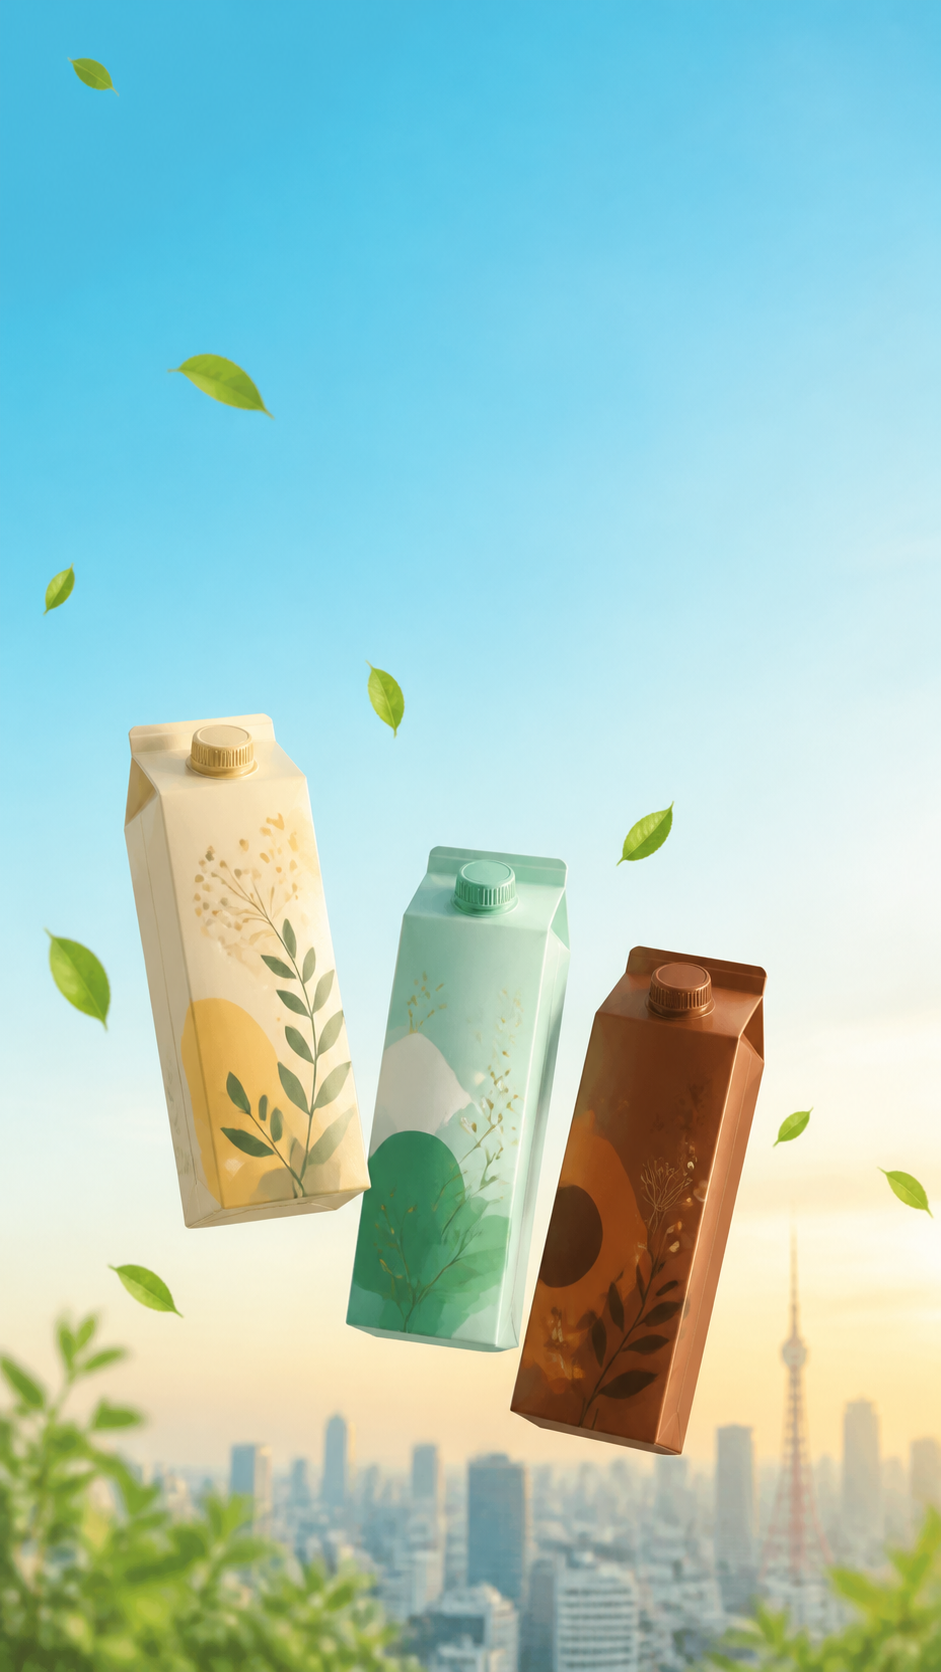
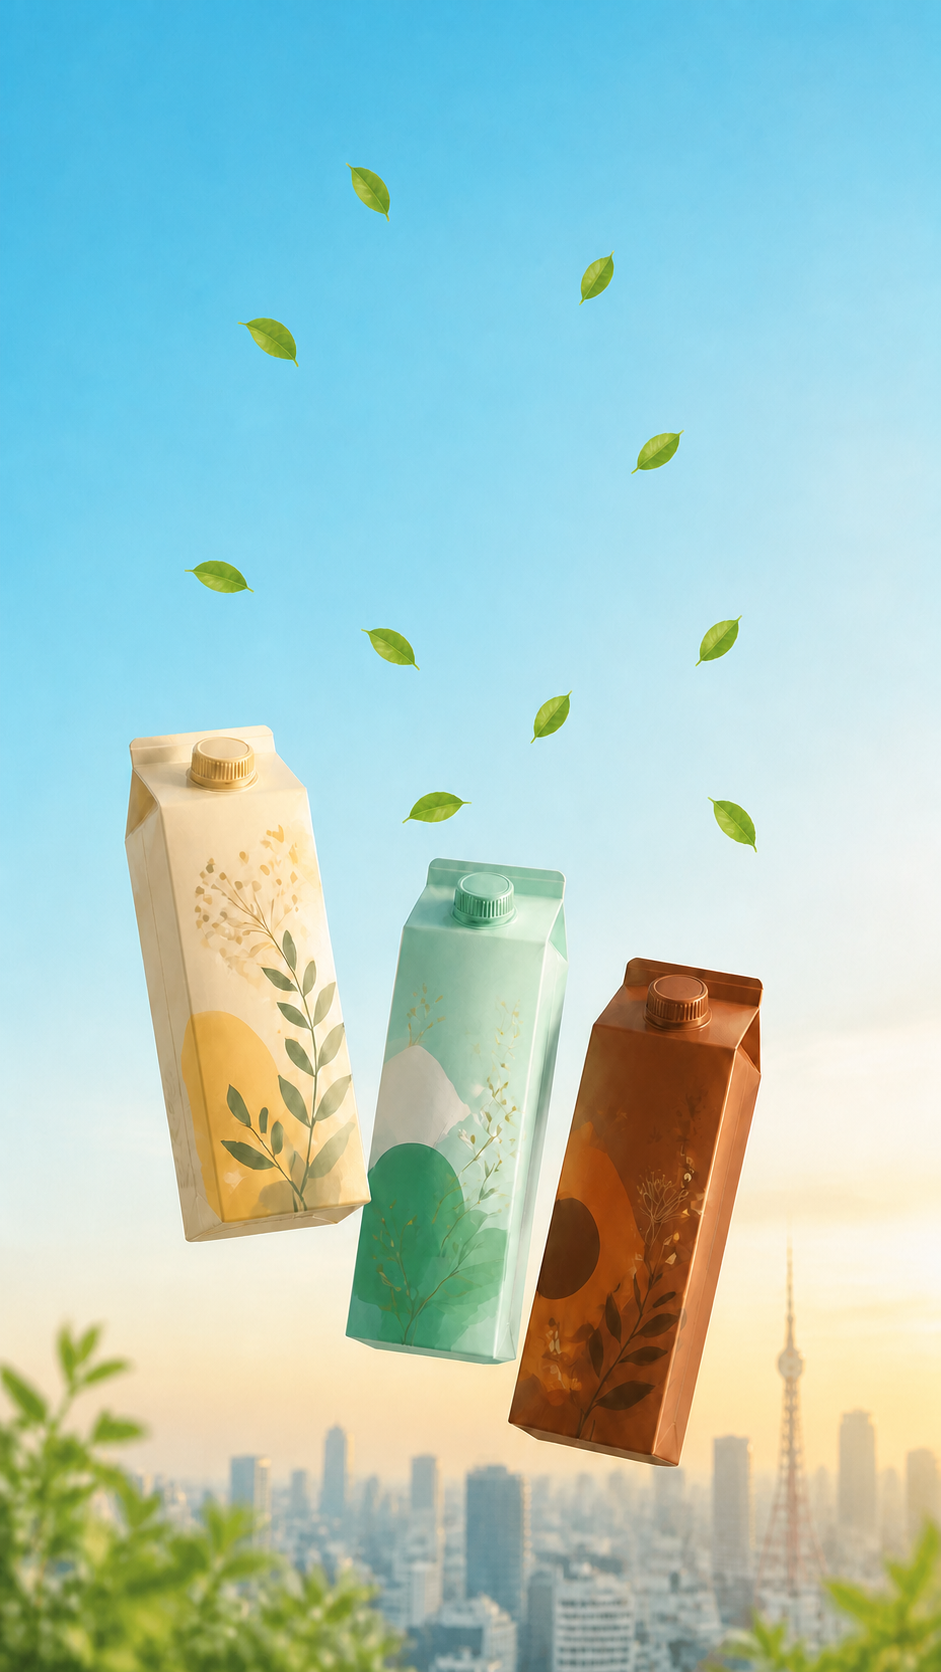
モーニングブルームLPの商品イラストを改善

diff --git a/portfolio/morning-bloom-call-lp/lp/style.css b/portfolio/morning-bloom-call-lp/lp/style.css
@@ -1,4 +1,5 @@
 :root{--sky:#56c9e8;--cream:#fff8e8;--mint:#dff6d2;--pink:#fde8ee;--cocoa:#6b3528;--ink:#40231d;--green:#538a4d;--white:#fff}. *{box-sizing:border-box}html{scroll-behavior:smooth}body{margin:0;background:#f7f3eb;color:var(--ink);font-family:"Yu Mincho","Hiragino Mincho ProN",serif;line-height:1.8}a{color:inherit}.site-header{height:64px;padding:0 clamp(20px,5vw,72px);display:flex;align-items:center;justify-content:space-between;background:rgba(255,255,255,.94);position:sticky;top:0;z-index:20;backdrop-filter:blur(12px);font-family:system-ui,sans-serif}.brand{font-weight:800;letter-spacing:.08em;text-decoration:none}.header-cta{background:var(--cocoa);color:#fff;text-decoration:none;padding:8px 18px;border-radius:4px;font-weight:700}.hero{max-width:1200px;margin:auto;min-height:760px;position:relative;overflow:hidden}.hero-media,.hero-media img{display:block;width:100%;height:100%}.hero-media{position:absolute;inset:0}.hero-media img{object-fit:cover}.hero-copy{position:relative;z-index:2;margin-left:54%;padding:11% 5% 120px;text-shadow:0 1px 12px rgba(255,255,255,.7)}.eyebrow,.section-kicker{font-family:system-ui,sans-serif;font-size:.78rem;font-weight:800;letter-spacing:.16em}.hero h1{font-size:clamp(3rem,6.5vw,6rem);line-height:1.08;margin:.2em 0}.hero h1 em{font-style:normal;color:var(--cocoa)}.button{display:inline-block;margin-top:20px;padding:14px 30px;background:var(--cocoa);color:#fff;text-decoration:none;border-radius:4px;font-family:system-ui,sans-serif;font-weight:800;box-shadow:0 8px 20px rgba(107,53,40,.2);transition:.18s}.button:hover,.button:focus-visible{transform:translateY(-2px);box-shadow:0 12px 26px rgba(107,53,40,.3)}.button:focus-visible,summary:focus-visible,a:focus-visible{outline:3px solid #174d63;outline-offset:3px}.period{position:absolute;z-index:3;left:0;bottom:0;width:100%;margin:0;padding:14px;text-align:center;color:#fff;background:var(--cocoa);font-family:system-ui,sans-serif;font-weight:700}.intro,.voices,.howto,.products,.terms,.final-cta{max-width:1200px;margin:auto;padding:110px clamp(24px,7vw,100px);text-align:center}.intro{background:linear-gradient(135deg,#fbfff4,var(--mint));position:relative}.intro h2,.voices h2,.howto h2,.products h2,.final-cta h2{font-size:clamp(2rem,4.5vw,4rem);line-height:1.35;margin:.2em 0 .5em}.flavors{display:flex;justify-content:center;gap:20px;margin-top:40px}.flavors span{padding:8px 18px;border:1px solid var(--green);border-radius:50%;font:700 .75rem system-ui,sans-serif}.voices{background:linear-gradient(180deg,#f2fff0,#e1fff8)}.voice-grid,.product-grid{display:grid;grid-template-columns:repeat(3,1fr);gap:28px;margin-top:50px}.voice-grid article{padding:30px;background:rgba(255,255,255,.6);border-radius:50% 50% 20px 20px}.voice-grid b{color:var(--green);font:800 1.7rem system-ui,sans-serif}.avatar{width:130px;height:130px;border-radius:50%;display:grid;place-items:center;margin:12px auto;background:linear-gradient(145deg,#fff,#bce6d2);font-size:2.5rem}.note{font-size:.75rem}.howto{background:linear-gradient(180deg,var(--pink),#fff9df)}.steps{max-width:760px;margin:50px auto;padding:0;list-style:none;display:grid;gap:24px;text-align:left}.steps li{display:grid;grid-template-columns:100px 1fr;gap:22px;align-items:center;background:#fff;padding:24px;border:1px solid #d9aaa3;clip-path:polygon(3% 0,97% 0,100% 12%,100% 88%,97% 100%,3% 100%,0 88%,0 12%)}.steps span{font:800 .8rem system-ui,sans-serif;color:var(--cocoa)}.steps h3,.steps p{margin:0}.dark{background:#275749}.moment{max-width:1200px;min-height:530px;margin:auto;display:grid;align-items:center;padding:80px clamp(24px,8vw,110px);background:linear-gradient(90deg,rgba(255,255,255,.06),rgba(255,255,255,.86)),linear-gradient(145deg,#8ab878,#fff0bd)}.moment div{max-width:520px;margin-left:auto}.moment h2{font-size:clamp(2rem,4vw,3.5rem)}.products{background:radial-gradient(circle at 50% 10%,#fff6cf,#f4c26d)}.product-grid article{padding:30px 15px;background:rgba(255,255,255,.36)}.carton{display:block;width:100px;height:220px;margin:auto;border-radius:5px 5px 10px 10px;clip-path:polygon(15% 0,85% 0,100% 12%,100% 100%,0 100%,0 12%);box-shadow:0 20px 28px rgba(78,42,25,.18)}.carton.oat{background:linear-gradient(145deg,#fff5cf,#d9a54c)}.carton.mint{background:linear-gradient(145deg,#dffff1,#52b99a)}.carton.cocoa{background:linear-gradient(145deg,#c88359,#57291e)}.terms{background:#fff5ee;text-align:left}.terms>h2{text-align:center}details{max-width:800px;margin:12px auto;background:#fff;padding:16px 20px;border-left:4px solid var(--cocoa)}summary{cursor:pointer;font-weight:700}.final-cta{background:linear-gradient(145deg,#fff8d7,#cfeecb)}footer{padding:30px;text-align:center;background:#eee;font-family:system-ui,sans-serif}.reveal{opacity:0;transform:translateY(26px);transition:.7s cubic-bezier(.16,1,.3,1)}.reveal.is-visible{opacity:1;transform:none}
 @media(max-width:767px){.site-header{height:56px}.brand{font-size:.78rem}.hero{min-height:820px}.hero-copy{margin:0;padding:80px 24px 390px;text-align:center}.hero h1{font-size:3rem}.hero-copy p{font-size:.9rem}.intro,.voices,.howto,.products,.terms,.final-cta{padding:76px 22px}.voice-grid,.product-grid{grid-template-columns:1fr}.voice-grid{gap:16px}.voice-grid article{border-radius:24px}.steps li{grid-template-columns:1fr;gap:4px}.moment{min-height:480px;text-align:center}.moment div{margin:auto}.flavors{gap:8px}.flavors span{padding:6px 10px}.period{font-size:.75rem}}
 @media(prefers-reduced-motion:reduce){html{scroll-behavior:auto}.reveal,.button{transition:none;transform:none}.reveal{opacity:1}}
+.product-illustration{display:block;width:auto;height:280px;max-width:100%;margin:0 auto 22px;object-fit:contain;filter:drop-shadow(0 18px 16px rgba(78,42,25,.18))}.product-grid h3{margin:0}.product-grid p{margin-bottom:0}
 *{box-sizing:border-box}.brand{min-height:44px;display:flex;align-items:center}summary{min-height:44px;display:flex;align-items:center}footer small{font-size:15px}

diff --git a/portfolio/morning-bloom-call-lp/lp/index.html b/portfolio/morning-bloom-call-lp/lp/index.html
@@ -25,7 +25,7 @@
 
     <section class="moment reveal"><div><p class="section-kicker">A SMALL MORNING RITUAL</p><h2>耳を傾ける30秒が、<br>一日の余白になる。</h2><p>着替えながら。窓を開けながら。<br>いつもの朝に、無理なく続く小さな習慣です。</p></div></section>
 
-    <section class="products reveal" id="products"><p class="section-kicker">PRODUCTS</p><h2>今日の気分で選べる3つの味</h2><div class="product-grid"><article><i class="carton oat"></i><h3>OAT LATTE</h3><p>まろやかな香ばしさ</p></article><article><i class="carton mint"></i><h3>MINT MILK</h3><p>すっきり軽い後味</p></article><article><i class="carton cocoa"></i><h3>COCOA BLEND</h3><p>ほっとする深いコク</p></article></div></section>
+    <section class="products reveal" id="products"><p class="section-kicker">PRODUCTS</p><h2>今日の気分で選べる3つの味</h2><div class="product-grid"><article><img class="product-illustration" src="./images/product-oat.png" width="941" height="1672" alt="草花を描いたオーツラテの紙パック"><h3>OAT LATTE</h3><p>まろやかな香ばしさ</p></article><article><img class="product-illustration" src="./images/product-mint.png" width="941" height="1672" alt="緑の丘と草花を描いたミントミルクの紙パック"><h3>MINT MILK</h3><p>すっきり軽い後味</p></article><article><img class="product-illustration" src="./images/product-cocoa.png" width="941" height="1672" alt="銅色の草花を描いたココアブレンドの紙パック"><h3>COCOA BLEND</h3><p>ほっとする深いコク</p></article></div></section>
 
     <section class="terms reveal"><h2>キャンペーン概要・注意事項</h2><details><summary>応募・利用条件</summary><p>日本国内にお住まいの方が対象です。通信料は利用者負担となります。音声コンテンツの録音・転載・再配布はご遠慮ください。</p></details><details><summary>推奨環境と免責事項</summary><p>最新版の主要ブラウザをご利用ください。端末や通信環境により再生できない場合があります。本ページは自主制作の架空キャンペーンです。</p></details><details><summary>個人情報の取り扱い</summary><p>本デモでは個人情報を収集しません。実際のキャンペーンとして運用する場合は、運営者のプライバシーポリシーを掲載してください。</p></details></section>
 

diff --git a/portfolio/morning-bloom-call-lp/outputs/uiux-audit.md b/portfolio/morning-bloom-call-lp/outputs/uiux-audit.md
@@ -7,7 +7,7 @@
 
 重大 0件 / 要改善 0件 / 参考 7件
 
-ページ高 6970px（8.3画面分） / テキストブロック 63 / 操作要素 8 / 画像 1
+ページ高 7103px（8.4画面分） / テキストブロック 63 / 操作要素 8 / 画像 4
 
 ### 🔵 参考 [アクセシビリティ] 背景画像の明るい部分に重なるとAA未満になりうる文字。スクリム（半透明の暗幕）を濃くするか、実画像で目視確認する
 
@@ -66,7 +66,7 @@
 
 重大 0件 / 要改善 1件 / 参考 6件
 
-ページ高 5794px（6.4画面分） / テキストブロック 63 / 操作要素 8 / 画像 1
+ページ高 5838px（6.5画面分） / テキストブロック 63 / 操作要素 8 / 画像 4
 
 ### 🟡 要改善 [タイポグラフィ] 1行が長すぎて視線が戻りにくい（日本語は20〜45字が目安）
 
@@ -110,7 +110,7 @@
 
 - `document` — 38 / 63 ブロック
 
-### 🔵 参考 [反復] 余白の37%が4pxグリッドから外れている（8pxグリッドに寄せると整列と反復が効く）
+### 🔵 参考 [反復] 余白の36%が4pxグリッドから外れている（8pxグリッドに寄せると整列と反復が効く）
 
 該当 1件
 
